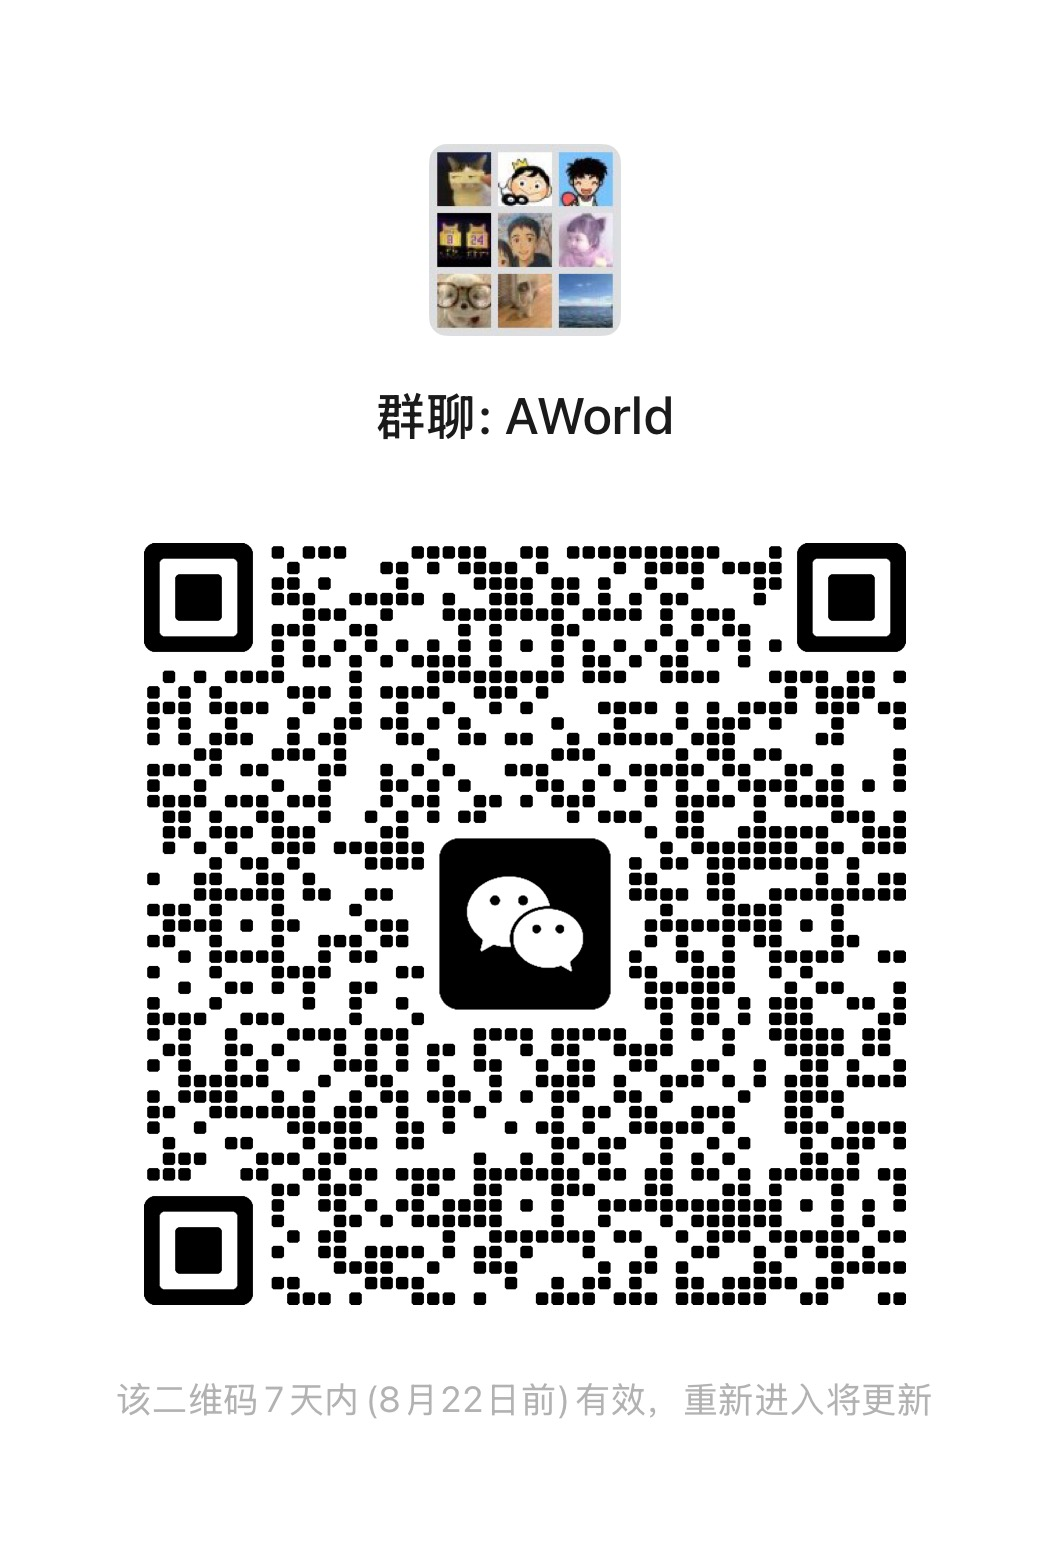
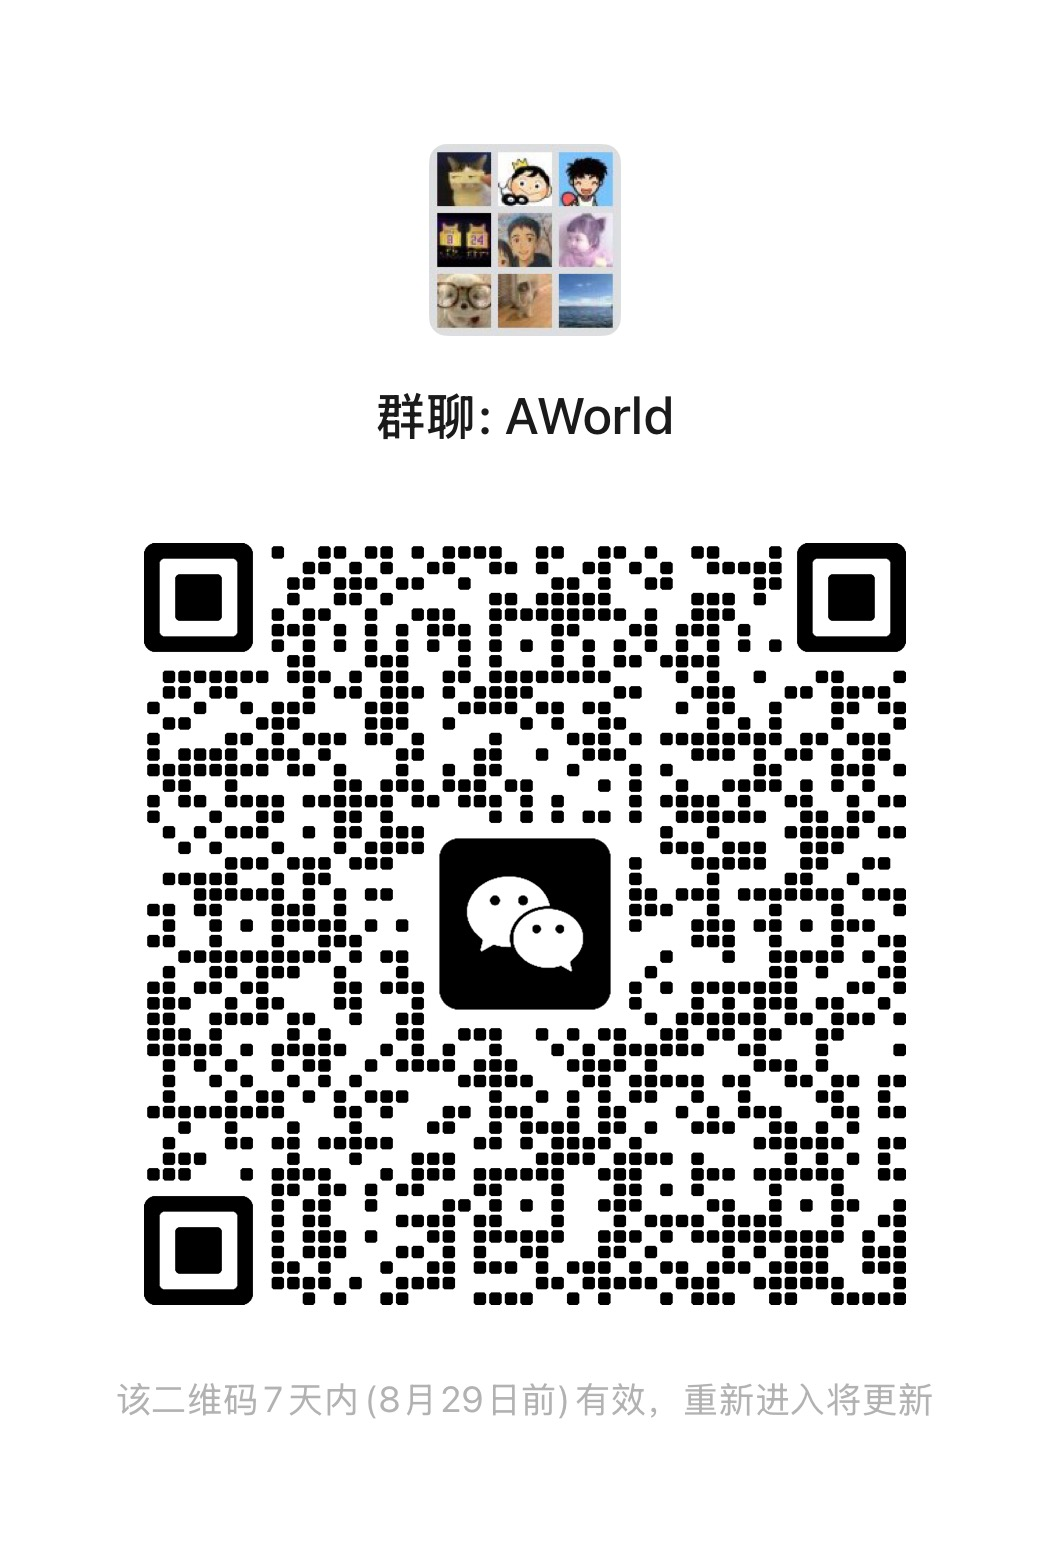
Update IMO example and Wechat qr code

diff --git a/examples/imo/guard_tool_caller.py b/examples/imo/guard_tool_caller.py
@@ -1,3 +1,26 @@
+# MIT License
+#
+# Copyright (c) 2025 Lin Yang, Yichen Huang
+#
+# Permission is hereby granted, free of charge, to any person obtaining a copy
+# of this software and associated documentation files (the "Software"), to deal
+# in the Software without restriction, including without limitation the rights
+# to use, copy, modify, merge, publish, distribute, sublicense, and/or sell
+# copies of the Software, and to permit persons to whom the Software is
+# furnished to do so, subject to the following conditions:
+#
+# The above copyright notice and this permission notice shall be included in all
+# copies or substantial portions of the Software.
+#
+# THE SOFTWARE IS PROVIDED "AS IS", WITHOUT WARRANTY OF ANY KIND, EXPRESS OR
+# IMPLIED, INCLUDING BUT NOT LIMITED TO THE WARRANTIES OF MERCHANTABILITY,
+# FITNESS FOR A PARTICULAR PURPOSE AND NONINFRINGEMENT. IN NO EVENT SHALL THE
+# AUTHORS OR COPYRIGHT HOLDERS BE LIABLE FOR ANY CLAIM, DAMAGES OR OTHER
+# LIABILITY, WHETHER IN AN ACTION OF CONTRACT, TORT OR OTHERWISE, ARISING FROM,
+# OUT OF OR IN CONNECTION WITH THE SOFTWARE OR THE USE OR OTHER DEALINGS IN THE
+# SOFTWARE.
+
+
 import os
 import logging
 from typing import Dict, Any

diff --git a/examples/imo/prompt.py b/examples/imo/prompt.py
@@ -1,3 +1,26 @@
+# MIT License
+#
+# Copyright (c) 2025 Lin Yang, Yichen Huang
+#
+# Permission is hereby granted, free of charge, to any person obtaining a copy
+# of this software and associated documentation files (the "Software"), to deal
+# in the Software without restriction, including without limitation the rights
+# to use, copy, modify, merge, publish, distribute, sublicense, and/or sell
+# copies of the Software, and to permit persons to whom the Software is
+# furnished to do so, subject to the following conditions:
+#
+# The above copyright notice and this permission notice shall be included in all
+# copies or substantial portions of the Software.
+#
+# THE SOFTWARE IS PROVIDED "AS IS", WITHOUT WARRANTY OF ANY KIND, EXPRESS OR
+# IMPLIED, INCLUDING BUT NOT LIMITED TO THE WARRANTIES OF MERCHANTABILITY,
+# FITNESS FOR A PARTICULAR PURPOSE AND NONINFRINGEMENT. IN NO EVENT SHALL THE
+# AUTHORS OR COPYRIGHT HOLDERS BE LIABLE FOR ANY CLAIM, DAMAGES OR OTHER
+# LIABILITY, WHETHER IN AN ACTION OF CONTRACT, TORT OR OTHERWISE, ARISING FROM,
+# OUT OF OR IN CONNECTION WITH THE SOFTWARE OR THE USE OR OTHER DEALINGS IN THE
+# SOFTWARE.
+
+
 system_prompt = """
 ### Core Instructions ###
 

diff --git a/examples/imo/README.md b/examples/imo/README.md
@@ -216,3 +216,11 @@ conda env remove -n aworld_imo_env
 3. IMO dataset is pre-configured in the imo folder
 4. Recommended to start testing with test problem
 5. The system focuses on solution quality and reasoning process rather than exact answer matching
+
+
+
+## Acknowledgements
+
+The IMO-related prompt code in this repository is adapted from the work of Lin Yang and Yichen Huang. We are grateful for their original implementation.
+
+- Original Repository: [https://github.com/lyang36/IMO25](https://github.com/lyang36/IMO25)
